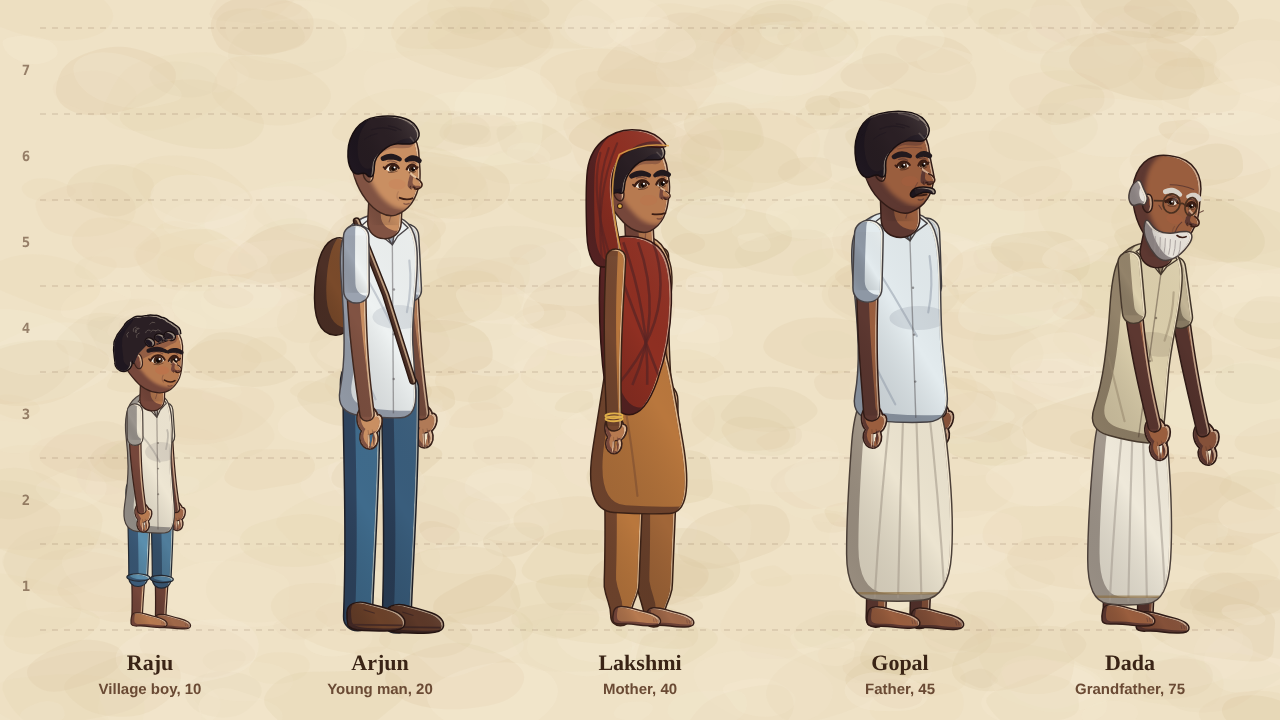
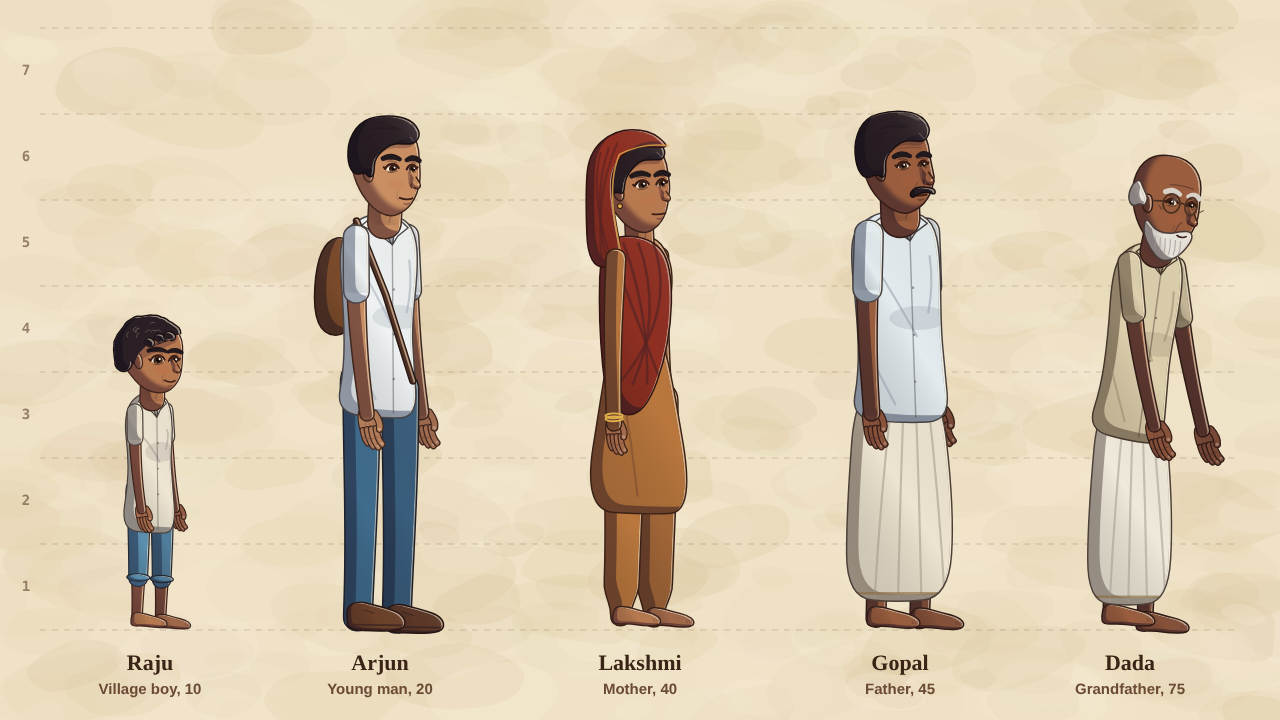
Village study: village cast is the main look; detailed hands, proper nose, front-facing lineup
Claude-Session: https://claude.ai/code/session_01CFreaP4b5SAhinaywDeooY

diff --git a/2d-style-study/village-painterly/03 Mockups/cast.js b/2d-style-study/village-painterly/03 Mockups/cast.js
@@ -202,22 +202,26 @@
     brow(c, nearX - .01 * u, by, ew * 1.25, u, f.raise || 0, f.worry || 0, f.angry || 0, ch.hair === 'elder' ? '#d9d2c8' : hc, 1);
     brow(c, farX + .01 * u, by + .005 * u, ew * .95, u, f.raise || 0, f.worry || 0, f.angry || 0, ch.hair === 'elder' ? '#d9d2c8' : hc, -1);
 
-    // nose: 3/4 view, bridge from between the eyes, rounded tip past the cheek line
+    // nose: 3/4 view. A straight bridge from between the eyes, a neat rounded tip that just breaks the
+    // cheek line, a small nostril wing and one nostril. Shading on the bridge side, a highlight on the tip.
     const nx = fx * 1.3;
-    const nk = kid ? .8 : ch.build === 'woman' ? .7 : .9;
-    c.save(); c.translate(.27 * u + nx, .02 * u); c.scale(nk, nk); c.translate(-(.27 * u + nx), -.02 * u);
-    const nose = new Path2D();
-    const big = kid ? .85 : ch.build === 'woman' ? .82 : 1;
-    nose.moveTo(.28 * u + nx, .02 * u);
-    nose.bezierCurveTo(.32 * u + nx, .08 * u, (.37 + .04 * big) * u + nx, .1 * u, (.4 + .03 * big) * u + nx, .16 * u);
-    nose.bezierCurveTo((.44 + .03 * big) * u + nx, .22 * u, .39 * u + nx, .255 * u, .33 * u + nx, .24 * u);
-    nose.bezierCurveTo(.3 * u + nx, .25 * u, .25 * u + nx, .24 * u, .25 * u + nx, .2 * u);
-    nose.bezierCurveTo(.25 * u + nx, .15 * u, .27 * u + nx, .1 * u, .28 * u + nx, .02 * u);
-    celT(c, nose, sk, Lt, u, { ink: false, swk: .45 });
-    c.save(); c.strokeStyle = INK; c.lineCap = 'round'; c.lineWidth = Math.max(1.2, u * .02);
-    c.beginPath(); c.moveTo(.36 * u + nx, .11 * u); c.bezierCurveTo((.4 + .03 * big) * u + nx, .14 * u, (.44 + .03 * big) * u + nx, .2 * u, .4 * u + nx, .24 * u); c.quadraticCurveTo(.37 * u + nx, .255 * u, .34 * u + nx, .245 * u); c.stroke();
-    c.lineWidth = Math.max(1, u * .014); c.strokeStyle = S.rgba(INK, .7); c.beginPath(); c.moveTo(.29 * u + nx, .215 * u); c.quadraticCurveTo(.27 * u + nx, .24 * u, .3 * u + nx, .25 * u); c.stroke();
-    c.fillStyle = S.rgba('#2a120c', .8); c.beginPath(); c.ellipse(.335 * u + nx, .225 * u, .022 * u, .01 * u, .2, 0, S.TAU); c.fill();
+    const nk = kid ? .82 : ch.build === 'woman' ? .78 : ch.build === 'broad' ? 1 : .92;
+    c.save(); c.translate(.3 * u + nx, .1 * u); c.scale(nk, nk); c.translate(-(.3 * u + nx), -.1 * u);
+    const N = (x, y) => [x * u + nx, y * u];
+    const nose = S.poly([N(.27, -.02), N(.31, .03), N(.36, .1), N(.405, .165), N(.41, .2), N(.385, .228), N(.34, .232), N(.3, .225), N(.265, .2), N(.27, .15), N(.275, .08)]);
+    celT(c, nose, sk, Lt, u, { ink: false, swk: .35, rim: sk.base, vol: false });
+    c.save(); c.lineCap = 'round'; c.lineJoin = 'round';
+    // bridge shadow on the side away from the light
+    c.strokeStyle = S.rgba(sk.shade, .55); c.lineWidth = u * .03; c.beginPath(); c.moveTo(...N(.255, .0)); c.quadraticCurveTo(...N(.26, .1), ...N(.27, .16)); c.stroke();
+    // front edge and tip
+    c.strokeStyle = INK; c.lineWidth = Math.max(1.2, u * .018);
+    c.beginPath(); c.moveTo(...N(.35, .085)); c.lineTo(...N(.395, .15)); c.quadraticCurveTo(...N(.425, .2), ...N(.39, .226)); c.quadraticCurveTo(...N(.365, .238), ...N(.345, .228)); c.stroke();
+    // nostril wing: a short c-curve
+    c.lineWidth = Math.max(1, u * .014); c.strokeStyle = S.rgba(INK, .75);
+    c.beginPath(); c.moveTo(...N(.3, .17)); c.quadraticCurveTo(...N(.275, .2), ...N(.3, .224)); c.stroke();
+    // nostril and tip highlight
+    c.fillStyle = S.rgba('#2a120c', .75); c.beginPath(); c.ellipse(...N(.335, .222), .02 * u, .009 * u, .25, 0, S.TAU); c.fill();
+    c.fillStyle = S.rgba('#fff3e0', .55); c.beginPath(); c.ellipse(...N(.385, .175), .016 * u, .011 * u, -.6, 0, S.TAU); c.fill();
     c.restore(); c.restore();
 
     // mouth
@@ -326,15 +330,39 @@
   const BW = { kid: .74, man: 1, broad: 1.13, woman: .86, elder: .9 };
 
   // hand: palm with four fingers and a thumb, pointing along angle a (relaxed, slightly curled)
+  // Detailed relaxed hand, back of the hand toward us: palm, four separate fingers of different lengths
+  // (middle longest, little shortest) each gently curled with a knuckle crease and nail, and a thumb in front.
+  // Every finger gets its own ink pass, so a thin dark line always separates it from the one behind.
   const hand = (c, p, a, u, sz, sk, Lt, open = 0, fist = 0) => {
-    const d = dir(a), n = [d[1], -d[0]], ang = Math.atan2(d[1], d[0]);
+    const d = dir(a), n = [d[1], -d[0]];
     const H = (x, y) => add(add(p, d, x * sz), n, y * sz);
-    const fl = .32 * (1 - fist * .5);
-    const palm = H(.24, 0), fing = H(.42 + fl * .5, -.02), th = H(.34, .15);
-    const L = [[palm[0], palm[1], sz * .26, sz * .19, ang], [fing[0], fing[1], sz * fl * .62, sz * .16, ang], [th[0], th[1], sz * .17, sz * .085, ang + .45]];
-    lumpCel(c, L, sk, Lt, u, { swk: .25 });
-    c.save(); c.strokeStyle = S.rgba(inkOf(sk), .3); c.lineWidth = Math.max(.8, u * .008); c.lineCap = 'round';
-    for (let i = 1; i < 3; i++) { const y = -.1 + i * .08, q0 = H(.44, y), q1 = H(.42 + fl * 1.05, y * 1.1); c.beginPath(); c.moveTo(q0[0], q0[1]); c.lineTo(q1[0], q1[1]); c.stroke(); }
+    const lw = Math.max(1, u * .014), ink = inkOf(sk);
+    sk = Object.assign({}, sk, { base: S.mix(sk.base, sk.shade, .3) });
+    const curl = .55 - open * .5 + fist * .6;
+    const stroke = (pts, w, col) => { c.strokeStyle = col; c.lineWidth = w; c.lineCap = 'round'; c.lineJoin = 'round'; c.beginPath(); c.moveTo(pts[0][0], pts[0][1]); if (pts.length === 3) c.quadraticCurveTo(pts[1][0], pts[1][1], pts[2][0], pts[2][1]); else c.lineTo(pts[1][0], pts[1][1]); c.stroke(); };
+    c.save();
+    // palm / back of hand
+    const palm = S.poly([H(.02, -.14), H(.02, .1), H(.2, .17), H(.44, .15), H(.48, .02), H(.46, -.15), H(.24, -.18)]);
+    c.lineWidth = lw * 2; c.strokeStyle = ink; c.lineJoin = 'round'; c.stroke(palm);
+    c.fillStyle = sk.base; c.fill(palm);
+    // fingers from the far side (little finger) to the near side (index)
+    const F = [[-.12, .3, .075], [-.04, .38, .085], [.045, .41, .088], [.13, .36, .085]];
+    F.forEach(([y, len, w], i) => {
+      const b = H(.42, y), m = H(.42 + len * .6, y + curl * .02), e = H(.42 + len * (1 - curl * .25), y + curl * len * .4);
+      const fw = w * sz;
+      stroke([b, m, e], fw + lw * 2, ink);
+      stroke([b, m, e], fw, i < 2 ? S.mix(sk.base, sk.shade, .25) : sk.base);
+      // knuckle crease and nail
+      c.strokeStyle = S.rgba(sk.shade, .9); c.lineWidth = lw * .7; c.beginPath(); const k = H(.42 + len * .45, y - w * .3), k2 = H(.42 + len * .45, y + w * .3); c.moveTo(k[0], k[1]); c.lineTo(k2[0], k2[1]); c.stroke();
+      c.fillStyle = S.rgba(S.mix(sk.base, '#ffffff', .35), .8); c.beginPath(); c.arc(e[0] - d[0] * fw * .2, e[1] - d[1] * fw * .2, fw * .28, 0, S.TAU); c.fill();
+    });
+    // back-of-hand tendons and shading on the far side
+    c.strokeStyle = S.rgba(sk.shade, .5); c.lineWidth = lw * .7;
+    for (const y of [-.06, .02, .1]) { const q0 = H(.12, y * .6), q1 = H(.4, y); c.beginPath(); c.moveTo(q0[0], q0[1]); c.lineTo(q1[0], q1[1]); c.stroke(); }
+    // thumb in front, pointing down and slightly forward
+    const t0 = H(.14, .14), t1 = H(.32, .24 + open * .06), t2 = H(.44, .22 - curl * .04 + open * .08);
+    stroke([t0, t1, t2], .1 * sz + lw * 2, ink); stroke([t0, t1, t2], .1 * sz, sk.base);
+    c.fillStyle = S.rgba(S.mix(sk.base, '#ffffff', .35), .8); c.beginPath(); c.arc(t2[0], t2[1], .03 * sz, 0, S.TAU); c.fill();
     c.restore();
   };
   S.hand = (c, p, a, u, sz, pair, Lt, open) => hand(c, p, a, u, sz, tone(pair, Lt), Lt, open);
@@ -574,11 +602,17 @@
       const hc = S.mix(ch.hairCol.base, '#000000', ch.hair === 'elder' ? .1 : .2), by = eyY - (kid ? .12 : .1) * u - (f.squint || 0) * .02 * u;
       brow(c, -ex - .01 * u, by, ew * 1.2, u, f.raise || 0, f.worry || 0, f.angry || 0, ch.hair === 'elder' ? '#d9d2c8' : hc, 1);
       brow(c, ex + .01 * u, by, ew * 1.2, u, f.raise || 0, f.worry || 0, f.angry || 0, ch.hair === 'elder' ? '#d9d2c8' : hc, -1);
-      // nose: a soft shadow on the side away from the light, a rounded tip and two nostrils
-      const ny = (kid ? .2 : .22) * u, nk = kid ? .8 : ch.build === 'woman' ? .75 : 1, sL = Lt.L[0] >= 0 ? -1 : 1;
-      c.save(); c.fillStyle = S.rgba(sk.shade, .55); c.beginPath(); c.moveTo(sL * .015 * u, eyY + .04 * u); c.quadraticCurveTo(sL * .06 * u * nk, ny - .02 * u, sL * .055 * u * nk, ny + .02 * u); c.lineTo(sL * .02 * u, ny + .02 * u); c.closePath(); c.fill();
-      c.strokeStyle = INK; c.lineWidth = Math.max(1.1, u * .018); c.lineCap = 'round'; c.beginPath(); c.moveTo(-.055 * u * nk, ny); c.quadraticCurveTo(0, ny + .05 * u * nk, .055 * u * nk, ny); c.stroke();
-      c.fillStyle = S.rgba('#2a120c', .75); for (const s of [-1, 1]) { c.beginPath(); c.ellipse(s * .028 * u * nk, ny + .012 * u, .016 * u, .009 * u, 0, 0, S.TAU); c.fill(); }
+      // nose, front: soft bridge shadow on the side away from the light, a rounded tip with a highlight,
+      // two small nostril wings and two nostrils
+      const ny = (kid ? .2 : .22) * u, nk = kid ? .8 : ch.build === 'woman' ? .78 : ch.build === 'broad' ? 1.05 : .92, sL = Lt.L[0] >= 0 ? -1 : 1;
+      c.save(); c.lineCap = 'round';
+      c.strokeStyle = S.rgba(sk.shade, .5); c.lineWidth = u * .03; c.beginPath(); c.moveTo(sL * .035 * u, eyY + .02 * u); c.quadraticCurveTo(sL * .045 * u * nk, ny - .06 * u, sL * .05 * u * nk, ny - .02 * u); c.stroke();
+      c.fillStyle = S.rgba(sk.shade, .35); c.beginPath(); c.ellipse(0, ny + .01 * u, .05 * u * nk, .025 * u, 0, 0, S.TAU); c.fill();
+      c.strokeStyle = INK; c.lineWidth = Math.max(1.1, u * .016);
+      for (const s2 of [-1, 1]) { c.beginPath(); c.moveTo(s2 * .045 * u * nk, ny - .035 * u); c.quadraticCurveTo(s2 * .075 * u * nk, ny + .005 * u, s2 * .04 * u * nk, ny + .025 * u); c.stroke(); }
+      c.strokeStyle = S.rgba(INK, .6); c.beginPath(); c.moveTo(-.025 * u * nk, ny + .03 * u); c.quadraticCurveTo(0, ny + .042 * u, .025 * u * nk, ny + .03 * u); c.stroke();
+      c.fillStyle = S.rgba('#2a120c', .75); for (const s2 of [-1, 1]) { c.beginPath(); c.ellipse(s2 * .022 * u * nk, ny + .02 * u, .014 * u, .008 * u, s2 * .3, 0, S.TAU); c.fill(); }
+      c.fillStyle = S.rgba('#fff3e0', .5); c.beginPath(); c.ellipse(-sL * .008 * u, ny - .015 * u, .014 * u, .01 * u, 0, 0, S.TAU); c.fill();
       c.restore();
       // mouth
       const my = (kid ? .34 : .37) * u, mw = .15 * u * (kid ? .9 : 1), sm = f.smile || 0, op = f.open || 0;

diff --git a/2d-style-study/village-painterly/03 Mockups/character-sheet.html b/2d-style-study/village-painterly/03 Mockups/character-sheet.html
@@ -69,21 +69,13 @@ footer { margin-top: 60px; color: var(--muted); font-size: 14px; }
   <div class="eyebrow">2D style study · Village Painterly · learning only</div>
   <h1>Village cast: character sheet</h1>
   <p class="lede">Five characters drawn as a full turnaround (front, 3/4 right, 3/4 left, back), with body anatomy taken from the two turnaround sheets you sent. Nothing here touches the live 2D videos.</p>
-  <h2>New: noodle anatomy (copied from Tala)</h2>
-  <p>Raju rebuilt to your Tala breakdown: exactly 3 heads tall (head, then neck and torso, then legs and shoes, each one third). Wide bottom-heavy head, big round eyes that touch, ears low at the cheeks, a very thin neck, a narrow loose t-shirt with zig-zag trim, thin noodle arms and legs with no joints at all, and chunky high-top shoes for weight.</p>
-  <p class="muted">Round 2 fixes from your feedback: pear-shaped head with chubby lower cheeks that runs into an upturned nose in 3/4 and side; ears hang off the back of the jaw; hair has real volume with a thick bang that hooks up at the tip and V partings over the eyes; torso 35% narrower; a slight S-curve in 3/4 and side; open four-fingered hands; high-tops with ankle collar, toe box, white sole and eyelets.</p>
-  <p class="muted">Round 3 (poses): arms about 35% longer and always ending in open space outside the head; open hands with three splayed fingers and a thumb, turned to follow the forearm; an arm that crosses the face or chest is drawn on top. Defeated leans toward the knees with the elbow on the knee and the palm on the cheek; Come on! sweeps both arms back; Leaping and Dancing open wide; Ready for Action leans hard over the front leg.</p>
+  <h2>Main look: village cast</h2>
+  <p>This is the main version for the style board. Hands now have four separate fingers with knuckles and nails, the nose has a clean bridge, tip and nostril, and the cast is shown facing the camera as well as in 3/4.</p>
   <figure>
-    <div class="screen"><canvas id="cv-noodle-lineup" width="1280" height="720" aria-label="Raju at three heads tall in five views: front, three-quarter front, side, three-quarter back and back"></canvas><button type="button">Pause</button></div>
-    <figcaption><b>Line-up.</b> The bracket on the left splits him into three equal head units, like the Tala sheet.</figcaption>
+    <div class="screen"><canvas id="cv-cast-front" width="1280" height="720" aria-label="The five characters facing the camera, side by side with head-height guide lines"></canvas><button type="button">Pause</button></div>
+    <figcaption><b>Front view.</b> The main cast facing the camera: detailed four-finger hands and a proper nose in every view.</figcaption>
   </figure>
-  <figure>
-    <div class="screen"><canvas id="cv-noodle-poses" width="1280" height="720" aria-label="Raju in six action poses: defeated, come on, leaping, swaying, ready for action, dancing"></canvas><button type="button">Pause</button></div>
-    <figcaption><b>Poses.</b> The same six poses as the Tala sheet. Arms and legs bend in C and S curves and never at a corner.</figcaption>
-  </figure>
-  <h2>Previous version: village proportions</h2>
-  <p class="muted">The 6-heads-tall version from before, kept here to compare.</p>
-  <h3>Lineup</h3>
+  <h3>Lineup, 3/4 view</h3>
   <figure>
     <div class="screen"><canvas id="cv-cast" width="1280" height="720" aria-label="Five characters standing side by side with head-height guide lines"></canvas><button type="button">Pause</button></div>
     <figcaption><b>Cast lineup.</b> Dashed lines are one head tall. Each character breathes, shifts weight and blinks on their own timing.</figcaption>
@@ -121,6 +113,18 @@ footer { margin-top: 60px; color: var(--muted); font-size: 14px; }
     <div class="screen"><canvas id="cv-sheet-elder" width="1280" height="720" aria-label="Character sheet for Dada, grandfather, 75: turnaround from front, both 3/4 sides and back, head ruler, three expressions, colours and notes"></canvas><button type="button">Pause</button></div>
     <figcaption><b>Dada, grandfather, 75.</b> Stooped forward about 8 degrees, with thin arms and a slower idle. White side hair, beard and round glasses.</figcaption>
   </figure>
+  <h2>Experiment: noodle anatomy (copied from Tala)</h2>
+  <p>Raju rebuilt to your Tala breakdown: exactly 3 heads tall (head, then neck and torso, then legs and shoes, each one third). Wide bottom-heavy head, big round eyes that touch, ears low at the cheeks, a very thin neck, a narrow loose t-shirt with zig-zag trim, thin noodle arms and legs with no joints at all, and chunky high-top shoes for weight.</p>
+  <p class="muted">Round 2 fixes from your feedback: pear-shaped head with chubby lower cheeks that runs into an upturned nose in 3/4 and side; ears hang off the back of the jaw; hair has real volume with a thick bang that hooks up at the tip and V partings over the eyes; torso 35% narrower; a slight S-curve in 3/4 and side; open four-fingered hands; high-tops with ankle collar, toe box, white sole and eyelets.</p>
+  <p class="muted">Round 3 (poses): arms about 35% longer and always ending in open space outside the head; open hands with three splayed fingers and a thumb, turned to follow the forearm; an arm that crosses the face or chest is drawn on top. Defeated leans toward the knees with the elbow on the knee and the palm on the cheek; Come on! sweeps both arms back; Leaping and Dancing open wide; Ready for Action leans hard over the front leg.</p>
+  <figure>
+    <div class="screen"><canvas id="cv-noodle-lineup" width="1280" height="720" aria-label="Raju at three heads tall in five views: front, three-quarter front, side, three-quarter back and back"></canvas><button type="button">Pause</button></div>
+    <figcaption><b>Line-up.</b> The bracket on the left splits him into three equal head units, like the Tala sheet.</figcaption>
+  </figure>
+  <figure>
+    <div class="screen"><canvas id="cv-noodle-poses" width="1280" height="720" aria-label="Raju in six action poses: defeated, come on, leaping, swaying, ready for action, dancing"></canvas><button type="button">Pause</button></div>
+    <figcaption><b>Poses.</b> The same six poses as the Tala sheet. Arms and legs bend in C and S curves and never at a corner.</figcaption>
+  </figure>
   <h2>Help me get it right</h2>
   <ul>
     <li>Is this closer to the anatomy in your turnaround sheets? Which view looks most off?</li>
@@ -136,7 +140,7 @@ footer { margin-top: 60px; color: var(--muted); font-size: 14px; }
 <script src="noodle.js"></script>
 <script>
 (function () {
-  const ids = ['noodle-lineup', 'noodle-poses', 'cast', 'sheet-boy', 'sheet-youth', 'sheet-mother', 'sheet-father', 'sheet-elder'];
+  const ids = ['cast-front', 'cast', 'noodle-lineup', 'noodle-poses', 'sheet-boy', 'sheet-youth', 'sheet-mother', 'sheet-father', 'sheet-elder'];
   const start = () => {
     for (const name of ids) {
       const cv = document.getElementById('cv-' + name); if (!cv) continue;

diff --git a/2d-style-study/village-painterly/03 Mockups/index.html b/2d-style-study/village-painterly/03 Mockups/index.html
@@ -92,8 +92,12 @@ footer { margin-top: 60px; color: var(--muted); font-size: 14px; }
     <div class="ref main"><img src="refs/ref9.jpg" alt="Young man with a backpack skipping along a path between maize fields"><div><span class="tag">Ref 9 · main look</span><p>Daylight version: big clouds, birds crossing, maize swaying. Gave me the young man Arjun and the walk-to-skip energy.</p><a href="https://pin.it/5Z0VLwUvm">pin.it/5Z0VLwUvm</a></div></div>
   </div>
 
-  <h2>Character sheet</h2>
+  <h2>Character sheet (main look)</h2>
   <p>A new cast built for this look, with its own rig. It keeps the rule from the current 2D rig: knees bend forward only, elbows bend back only, and every joint bends in a soft curve, never a corner.</p>
+  <figure>
+    <div class="screen"><canvas id="cv-cast-front" width="1280" height="720" aria-label="The five characters facing the camera, side by side with head-height guide lines"></canvas><button type="button">Pause</button></div>
+    <figcaption><b>Front view.</b> The main cast facing the camera: detailed four-finger hands and a proper nose in every view.</figcaption>
+  </figure>
   <figure>
     <div class="screen"><canvas id="cv-cast" width="1280" height="720" aria-label="Five characters standing side by side with head-height guide lines"></canvas><button type="button">Pause</button></div>
     <figcaption><b>Cast lineup.</b> Dashed lines are one head tall. All five breathe, shift weight and blink on their own timing, so a crowd never blinks together.</figcaption>
@@ -250,7 +254,7 @@ footer { margin-top: 60px; color: var(--muted); font-size: 14px; }
 <script src="scenes.js"></script>
 <script>
 (function () {
-  const map = { 'cv-run': 'run', 'cv-cast': 'cast', 'cv-faces': 'faces', 'cv-recipe': 'recipe', 'cv-motion': 'motion', 'cv-moon': 'moon', 'cv-fire': 'fire', 'cv-face': 'face' };
+  const map = { 'cv-run': 'run', 'cv-cast-front': 'cast-front', 'cv-cast': 'cast', 'cv-faces': 'faces', 'cv-recipe': 'recipe', 'cv-motion': 'motion', 'cv-moon': 'moon', 'cv-fire': 'fire', 'cv-face': 'face' };
   const start = () => {
     for (const [id, name] of Object.entries(map)) {
       const cv = document.getElementById(id); if (!cv) continue;

diff --git a/2d-style-study/village-painterly/03 Mockups/scenes.js b/2d-style-study/village-painterly/03 Mockups/scenes.js
@@ -471,6 +471,27 @@
     }
   };
 
+  // Same lineup, everyone facing the camera
+  SC['cast-front'] = {
+    dur: 12,
+    init() { if (!this.bg) this.bg = S.off(W, H, paper); },
+    draw(c, t) {
+      this.init(); c.drawImage(this.bg, 0, 0);
+      const GY = 630, hu = 86;
+      c.save(); c.strokeStyle = 'rgba(90,60,40,.22)'; c.lineWidth = 1; c.setLineDash([6, 6]);
+      for (let i = 0; i <= 7; i++) { c.beginPath(); c.moveTo(40, GY - i * hu); c.lineTo(W - 40, GY - i * hu); c.stroke(); if (i) label(c, i + '', 26, GY - i * hu + hu / 2, 14, 'rgba(90,60,40,.6)', 'center', 'IBM Plex Mono, monospace'); }
+      c.restore();
+      const order = ['boy', 'youth', 'mother', 'father', 'elder'], xs = [150, 380, 640, 900, 1130];
+      order.forEach((n, i) => {
+        const ch = S.CAST[n];
+        S.contact(c, xs[i], GY + 2, 70, .25);
+        S.personFront(c, ch, xs[i], GY, ch.build === 'kid' ? hu * .82 : hu, { blink: S.blinkAt(t, i), smile: [.5, .3, .15, .1, .35][i], look: [Math.sin(t * .4 + i) * .4, 0], time: t }, S.LIGHT.studio, false, t + i * 1.7);
+        label(c, ch.name, xs[i], GY + 34, 22, '#3a2416', 'center', 'Yatra One, serif');
+        label(c, ch.role, xs[i], GY + 60, 15, '#6a4a34');
+      });
+    }
+  };
+
   // Expression sheet: the boy in eight moods
   SC.faces = {
     dur: 8,
